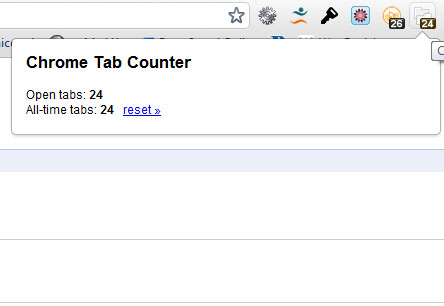
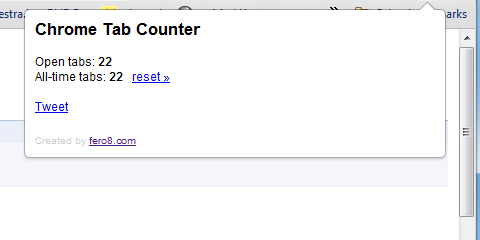
Added sharing

Changed region(s): [[0.0, 0.0, 1.0, 1.0], [0.0586, 0.175, 0.4392, 0.3792], [0.0293, 0.5542, 0.2928, 0.6125]]

diff --git a/src/scripts.js b/src/scripts.js
@@ -6,6 +6,17 @@ Storage.prototype.getObject = function(key) {
     return this.getItem(key) && JSON.parse(this.getItem(key));
 }
 
+function share(network) {
+
+    if (network == 'twitter') {
+        window.open('http://twitter.com/home?status=' + encodeURIComponent('I have ' + localStorage.tabsOpen + ' opened browser tabs. Who\'s got more? //via bit.ly/ptSWJu'));
+    } else {
+        window.open('http://www.facebook.com/sharer.php?u=' + encodeURIComponent('http://bit.ly/ptSWJu') + '&t=' + encodeURIComponent('I have ' + localStorage.tabsOpen + ' opened browser tabs.'));
+    }
+
+    return false;
+}
+
 function init() {
 
 	localStorage.setObject("tabsOpen", 0);
@@ -15,7 +26,6 @@ function init() {
 		localStorage.setObject("tabsTotal", 0);
 
 	chrome.tabs.onCreated.addListener(function(tab) {
-        console.log('opened');
 		incrementTabOpenCount(1);
 	});
 
@@ -34,8 +44,6 @@ function incrementTabOpenCount(count) {
 	localStorage.setObject('tabsOpen', localStorage.getObject('tabsOpen') + count);
     localStorage.setObject('tabsTotal', localStorage.getObject('tabsTotal') + count);
 	updateTabOpenCount();
-
-    console.log('increment');
 }
 
 function decrementTabOpenCount() {

diff --git a/src/popup.html b/src/popup.html
@@ -20,8 +20,9 @@ h3 a { text-decoration: none; }
 p.time {
 	color: #333; font-size: 10px;
 }
+p.social { margin: 15px 0; }
 #loader { text-align: center; vertical-align: middle; line-height: 60px; }
-#footer { margin-top: 20px; }
+#footer { margin-top: 20px; color: #ccc; font-size: 10px;}
 </style>
 
 
@@ -38,8 +39,16 @@ p.time {
 		<a href="#" onclick="resetTabTotalCount(); return false;">reset &raquo;</a>
 	</p>
 
-	<p></p>
+	<p class="social">
+		<a id="social-twitter" href="http://twitter.com/share" class="twitter-share-button-xxx" data-count="none" data-related="fero8:Developer" onclick="return share('twitter');">Tweet</a>
+		<!--|
+		<a id="social-fb" href="http://www.facebook.com/sharer.php?t=" onclick="return share('fb');">Share on Facebook</a>-->
+	</p>
 
+
+	<div id="footer">
+		Created by <a href="http://fero8.com/" target="_blank">fero8.com</a>
+	</div>
 </div>
 
 </body>
